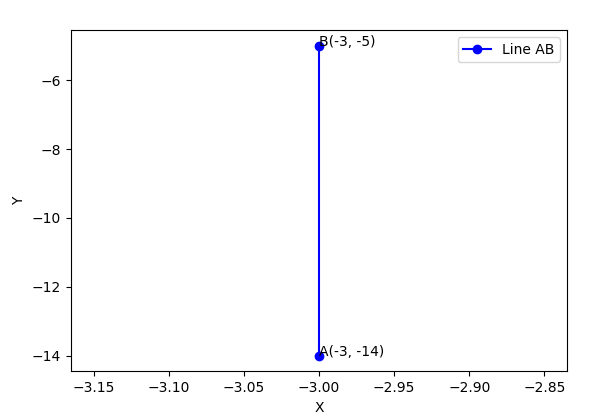
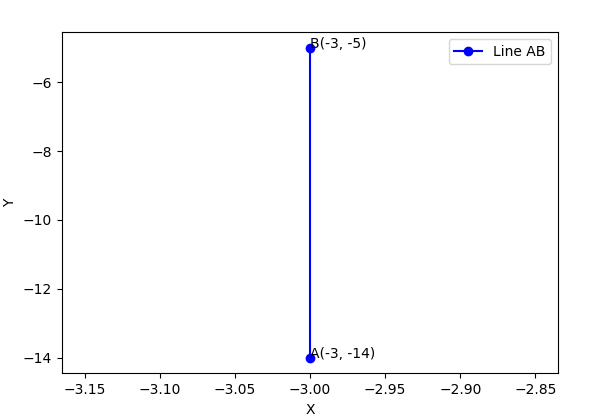
Assignment4

Changed region(s): [[0.0301, 0.0619, 0.9616, 0.9905], [0.0, 0.4643, 0.0301, 0.4952]]

diff --git a/Assignments/Assignment4/main.tex b/Assignments/Assignment4/main.tex
@@ -69,6 +69,6 @@ $\therefore$ a=3
 \begin{figure}[h]
     \centering
     \includegraphics[width=\columnwidth]{figs/fig.png}
-    \caption{Plot of A,B,C}
+    \caption{Plot of A,B}
  \end{figure}
 \end{document}
